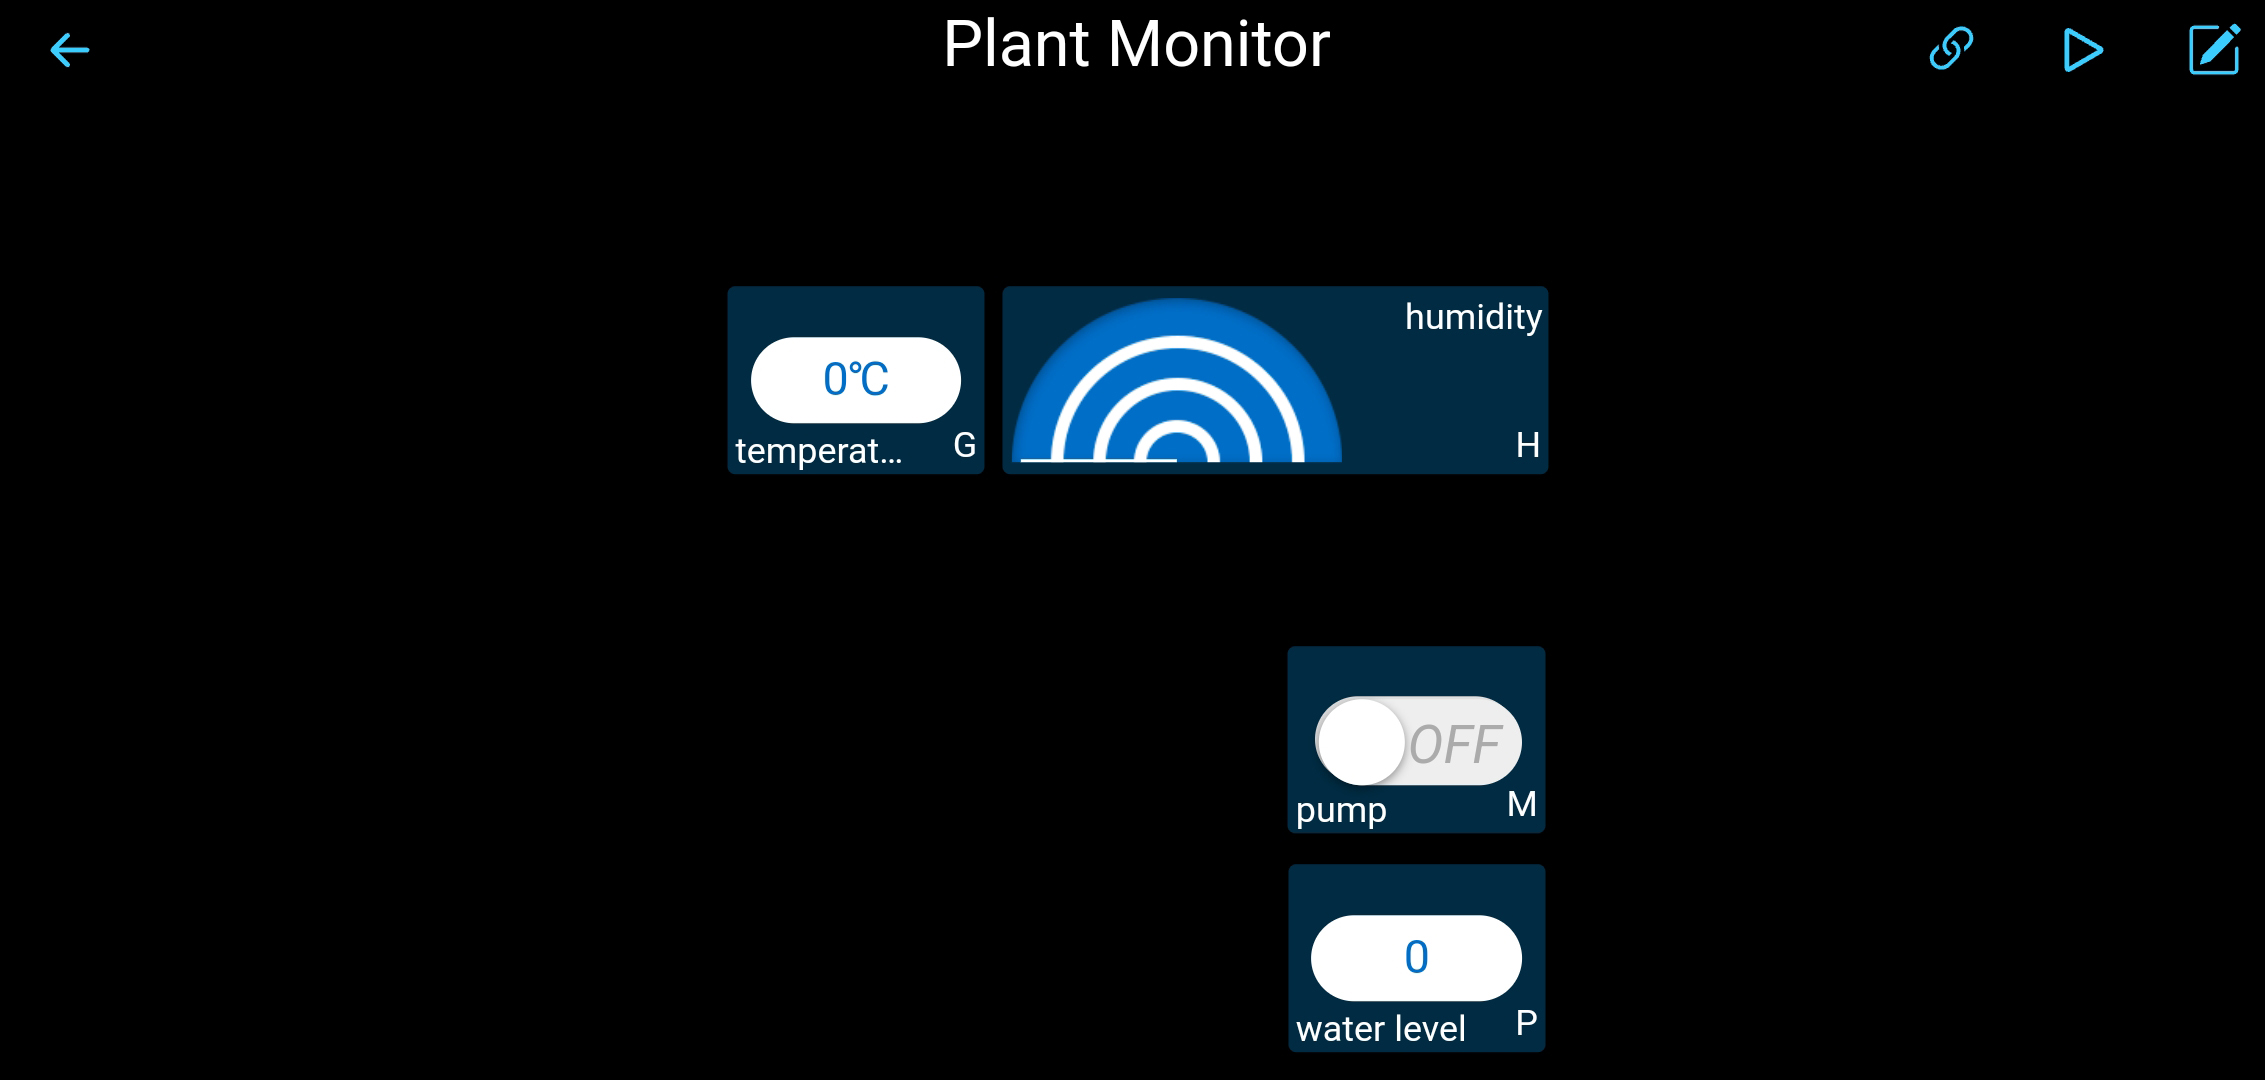
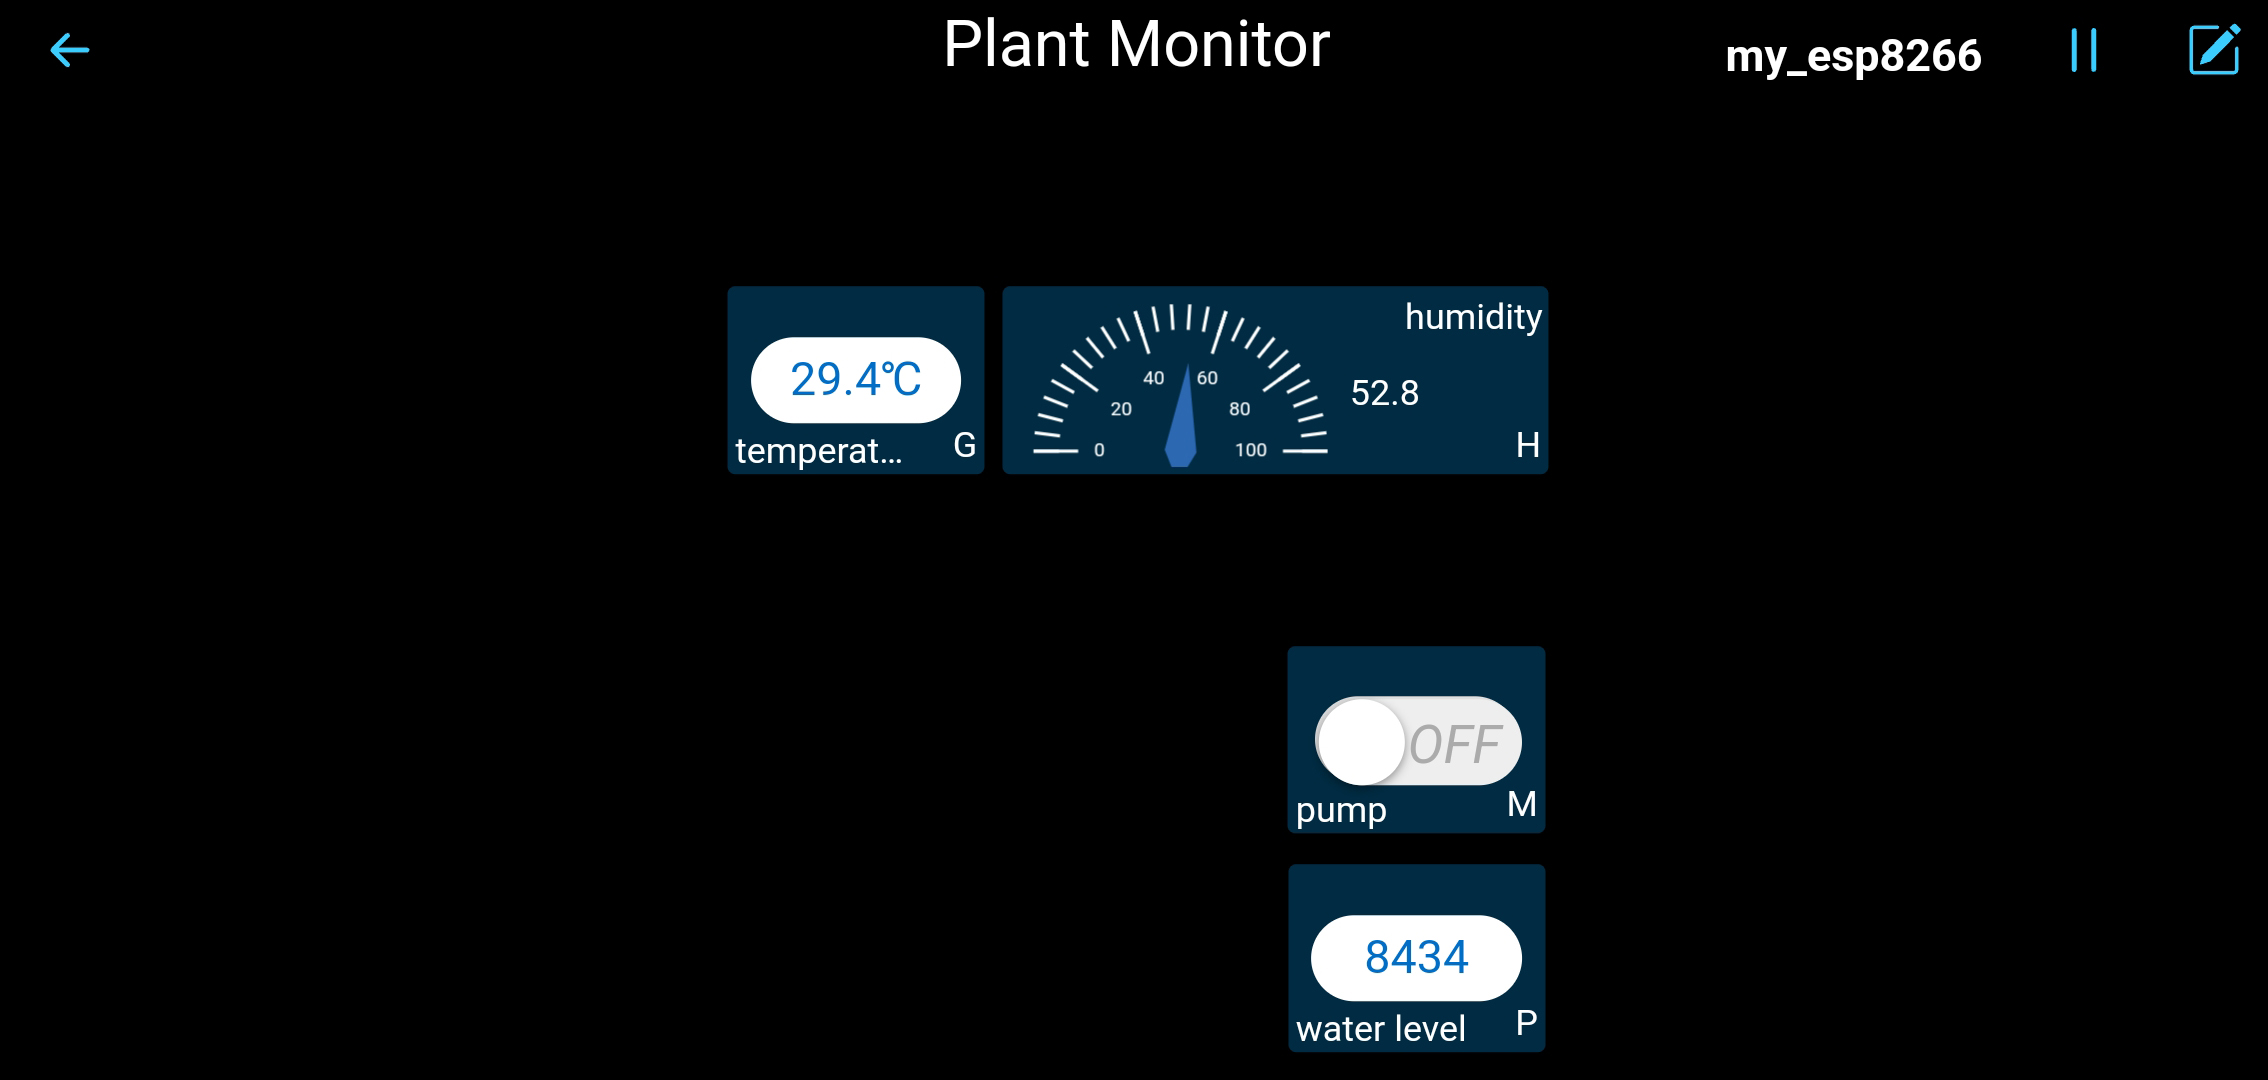
fix wiring

diff --git a/docs/source/espproject/esp_plant_monitor.rst b/docs/source/espproject/esp_plant_monitor.rst
@@ -43,11 +43,14 @@ When you press the pump button on the APP, it will replenish water for the plant
         
         # input
         # show dht11 message
-        sensor.measure()
-        value = sensor.temperature
-        ws.send_dict['G'] = value
-        value = sensor.humidity
-        ws.send_dict['H'] = value
+        try:
+            sensor.measure()
+            value = sensor.temperature
+            ws.send_dict['G'] = value
+            value = sensor.humidity
+            ws.send_dict['H'] = value
+        except:
+            pass
         
         # show water level sensor message
         value = water_sensor.read_u16()
@@ -60,7 +63,7 @@ When you press the pump button on the APP, it will replenish water for the plant
             motor2A.low()
         
         # stop pumping
-        if value>=15000:
+        if value>=15000 or 'M' in data.keys() and data['M'] is False:
             motor1A.low()
             motor2A.low()
 
